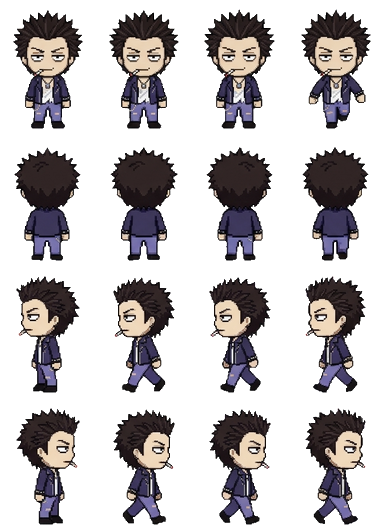
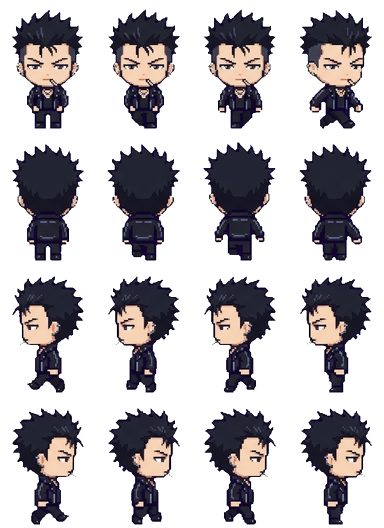
Redraw Honjo Ren in the shared art style
Claude-Session: https://claude.ai/code/session_01KaPsBYLrtbRfMYNG2xeBCK

diff --git a/docs/app.js b/docs/app.js
@@ -75,7 +75,7 @@ function spr(cat, k, col, sc) {
   return `<div class="clip" style="width:${it[2] * sc}px;height:${it[3] * sc}px;POS"><img class="px" src="assets/decor/${cat}.png" alt="" style="width:${S.sw * sc}px;height:${S.sh * sc}px;margin-left:${-col * S.cw * sc}px;margin-top:${-i * S.ch * sc}px"></div>`;
 }
 const icon = (k, sz) => `<span class="itm" style="width:${sz}px;height:${sz}px"><img class="px" src="assets/ui/items.png" alt="" style="width:${IT.length * sz}px;height:${sz}px;margin-left:${-ITM[k].i * sz}px"></span>`;
-const face = (id, w) => { const s = w / 96; return `<img class="px" src="assets/ch/${id}.webp?v=33" alt="" style="position:absolute;width:${384 * s}px;height:${528 * s}px;left:${-(96 * s - w) / 2}px;top:0;max-width:none">`; };
+const face = (id, w) => { const s = w / 96; return `<img class="px" src="assets/ch/${id}.webp?v=34" alt="" style="position:absolute;width:${384 * s}px;height:${528 * s}px;left:${-(96 * s - w) / 2}px;top:0;max-width:none">`; };
 
 // ---------- 저장 ----------
 let fb = null, user = null, S = null, saveT = null;
@@ -143,7 +143,7 @@ function sleepHTML(id, r, dy) {
   const pos = r.a && r.a[0] === 'bed' ? 'left:3%;bottom:20%' : r.b && r.b[0] === 'bed' ? 'right:3%;bottom:20%' : 'left:calc(50% - 44px);bottom:6%';
   const s = 36 / 96;
   return `<div style="position:absolute;width:88px;height:56px;${pos};z-index:${dy ? 4 : 5};${dy ? `transform:translate(12px,${dy}px)` : ''}"><div style="position:absolute;inset:0;filter:brightness(.22)">
-    <div style="position:absolute;left:11px;top:1px;width:36px;height:50px;overflow:hidden;transform:rotate(-90deg)"><img class="px" src="assets/ch/${id}.webp?v=33" alt="" style="width:${384 * s}px;height:${528 * s}px;max-width:none;margin-top:${-132 * s}px"></div>
+    <div style="position:absolute;left:11px;top:1px;width:36px;height:50px;overflow:hidden;transform:rotate(-90deg)"><img class="px" src="assets/ch/${id}.webp?v=34" alt="" style="width:${384 * s}px;height:${528 * s}px;max-width:none;margin-top:${-132 * s}px"></div>
     <div style="position:absolute;left:19px;top:19px;width:67px;height:29px;border:2px solid var(--ink);border-radius:8px 6px 4px 4px;background:#8ccff5;background-image:repeating-linear-gradient(90deg,transparent 0 10px,rgba(255,255,255,.5) 10px 13px)"></div></div>
     ${dy ? '' : '<span class="emo" style="left:8px;top:-22px;color:#5b6bd6">Z z z</span>'}</div>`;
 }
@@ -153,8 +153,8 @@ function roomHTML(id, o, scale) {
     <div class="floor" style="background-color:${PAL[r.fc][1]};background-image:${tileUrl('floor', r.fl)}"></div>
     ${slot('deco', r.dc, 'left:6%;top:6%')}${slot('furn', r.a, 'left:3%;bottom:20%')}${slot('furn', r.b, 'right:3%;bottom:20%')}${slot('prop', r.pr, 'left:28%;bottom:4%;z-index:2')}
     ${id && o.sleeping && g ? sleepHTML(g, r, -16) : ''}${id && o.sleeping ? sleepHTML(id, r) : ''}${id && o.job ? `<div style="position:absolute;left:50%;top:38%;transform:translateX(-50%);z-index:5;background:#fff;border:3px solid var(--ink);border-radius:10px;padding:6px 10px;font-size:11px;text-align:center;line-height:1.5"><img src="assets/ui/ic_job.png" alt="" style="width:18px;vertical-align:-4px"> ${WORK[id] ? WORK[id][1] : esc(JOB_NAME[id]) + ' 알바 중'}${g ? `<br><small>${esc(nameOf(g))}도 같이</small>` : ''}<br><b id="jobleft">${timeLeft(o.job.until)}</b></div>` : ''}
-    ${id ? `<div class="shadow" id="shd" ${o.sleeping || o.job ? 'style="display:none"' : ''}></div><div class="man" id="man" ${o.sleeping || o.job ? 'style="display:none"' : ''}><img class="px" src="assets/ch/${id}.webp?v=33" alt="${esc(nameOf(id))}"></div><span class="emo" id="emo" hidden></span><span class="mumble" id="mum" hidden></span>` : ''}
-    ${g ? `<div class="shadow" id="gshd" ${hideG}></div><div class="man" id="gman" ${hideG}><img class="px" src="assets/ch/${g}.webp?v=33" alt="${esc(nameOf(g))}"></div><span class="emo" id="gemo" hidden></span><span class="mumble gmum" id="gmum" hidden></span>` : ''}
+    ${id ? `<div class="shadow" id="shd" ${o.sleeping || o.job ? 'style="display:none"' : ''}></div><div class="man" id="man" ${o.sleeping || o.job ? 'style="display:none"' : ''}><img class="px" src="assets/ch/${id}.webp?v=34" alt="${esc(nameOf(id))}"></div><span class="emo" id="emo" hidden></span><span class="mumble" id="mum" hidden></span>` : ''}
+    ${g ? `<div class="shadow" id="gshd" ${hideG}></div><div class="man" id="gman" ${hideG}><img class="px" src="assets/ch/${g}.webp?v=34" alt="${esc(nameOf(g))}"></div><span class="emo" id="gemo" hidden></span><span class="mumble gmum" id="gmum" hidden></span>` : ''}
     ${o.sleeping ? `<div class="night"></div><div class="sleepleft">쿨쿨 · 일어나기까지 <b id="sleepleft">${timeLeft(wakeAt(o)).replace(' 남음', '')}</b></div>` : ''}
   </div>`;
 }
@@ -167,7 +167,7 @@ function meterHTML(o) {
 const ic = (act, img, label, pressed) => `<button class="ic" data-act="${act}" ${pressed ? 'aria-pressed="true"' : ''}><img src="assets/ui/ic_${img}.png?v=2" alt="">${label}</button>`;
 
 let dropStyle = null; const cheat = {};
-const APP_V = 105, COUPONS = { NINOGUYA: 3000 };
+const APP_V = 106, COUPONS = { NINOGUYA: 3000 };
 // 쿠폰 입력 정리: 한글 자판 상태로 친 글자(ㅜㅑㅜㅐ혀ㅛㅁ)도 영어 자판 글자로 바꾸고, 대소문자·띄어쓰기·마침표는 무시해요
 const KEY = { ㄱ: 'r', ㄲ: 'R', ㄴ: 's', ㄷ: 'e', ㄸ: 'E', ㄹ: 'f', ㅁ: 'a', ㅂ: 'q', ㅃ: 'Q', ㅅ: 't', ㅆ: 'T', ㅇ: 'd', ㅈ: 'w', ㅉ: 'W', ㅊ: 'c', ㅋ: 'z', ㅌ: 'x', ㅍ: 'v', ㅎ: 'g',
   ㅏ: 'k', ㅐ: 'o', ㅑ: 'i', ㅒ: 'O', ㅓ: 'j', ㅔ: 'p', ㅕ: 'u', ㅖ: 'P', ㅗ: 'h', ㅘ: 'hk', ㅙ: 'ho', ㅚ: 'hl', ㅛ: 'y', ㅜ: 'n', ㅝ: 'nj', ㅞ: 'np', ㅟ: 'nl', ㅠ: 'b', ㅡ: 'm', ㅢ: 'ml', ㅣ: 'l',
@@ -407,7 +407,7 @@ function startTrip(k) {
   if (tg) lines[1] = `${nameOf(tg)}: ${withHim(sub(pick(GLX(tg).trip), o, c.n), tg)}`;
   const n = (FR[id] || [4, 4, 4, 4])[3], el = document.createElement('div'); el.className = 'tripview';
   el.innerHTML = `<div class="tsay"> </div><div class="tstage" style="background-image:url(assets/travel/${k}.png?v=2)"><div class="tplace">${esc(c.n)}</div>
-    <div class="twalker"><img class="px" src="assets/ch/${id}.webp?v=33" alt=""></div>${tg ? `<div class="twalker tgirl"><img class="px" src="assets/ch/${tg}.webp?v=33" alt=""></div>` : ''}<span class="emo tjoy">♪</span></div>
+    <div class="twalker"><img class="px" src="assets/ch/${id}.webp?v=34" alt=""></div>${tg ? `<div class="twalker tgirl"><img class="px" src="assets/ch/${tg}.webp?v=34" alt=""></div>` : ''}<span class="emo tjoy">♪</span></div>
     <div class="tbar"><i></i></div><button class="btn white tskip" data-tskip="1">바로 돌아오기</button>`;
   document.body.appendChild(el);
   const gimg = el.querySelector('.tgirl img'), gn = tg ? (FR[tg] || [4, 4, 4, 4])[3] : 1;
@@ -636,7 +636,7 @@ setInterval(() => { if (S && user) { tickTime(); save(); } }, 60000);
     if (nv > APP_V && !location.search.includes('u=' + nv)) { location.replace(location.pathname + '?u=' + nv); return; }
   } catch { }
   app.innerHTML = '<div class="start"><div class="egg"><div class="scr"></div></div><div class="note">불러오는 중....</div></div>';
-  const [c, t, f, it, mu, ct, tv, gl, sts] = await Promise.all(['data/chars.json', 'data/talk.json', 'data/frames.json', 'data/items.json', 'data/mumble.json', 'data/countries.json', 'data/travel.json', 'data/girls.json', 'data/sets.json'].map(u => fetch(u + '?v=105').then(r => r.ok ? r.json() : {})));
+  const [c, t, f, it, mu, ct, tv, gl, sts] = await Promise.all(['data/chars.json', 'data/talk.json', 'data/frames.json', 'data/items.json', 'data/mumble.json', 'data/countries.json', 'data/travel.json', 'data/girls.json', 'data/sets.json'].map(u => fetch(u + '?v=106').then(r => r.ok ? r.json() : {})));
   CH = c; CHM = Object.fromEntries(c.map(x => [x.id, x])); TALK = t; FR = f; IT = it; ITM = Object.fromEntries(it.map(x => [x.k, x])); MUM = mu; CTRY = ct; TRV = tv; GL = Array.isArray(gl) ? gl : []; SETS = Array.isArray(sts) ? sts : []; GLM = Object.fromEntries(GL.map(x => [x.id, x]));
   try { await initFirebase(); } catch (e) { console.warn('Firebase 연결 실패, 기기 저장으로', e); fb = null; }
   if (fb) {

diff --git a/docs/index.html b/docs/index.html
@@ -18,6 +18,6 @@
 <main id="app" aria-live="polite"></main>
 <div id="toast" role="status" hidden></div>
 <script src="firebase-config.js?v=3"></script>
-<script type="module" src="app.js?v=105"></script>
+<script type="module" src="app.js?v=106"></script>
 </body>
 </html>
